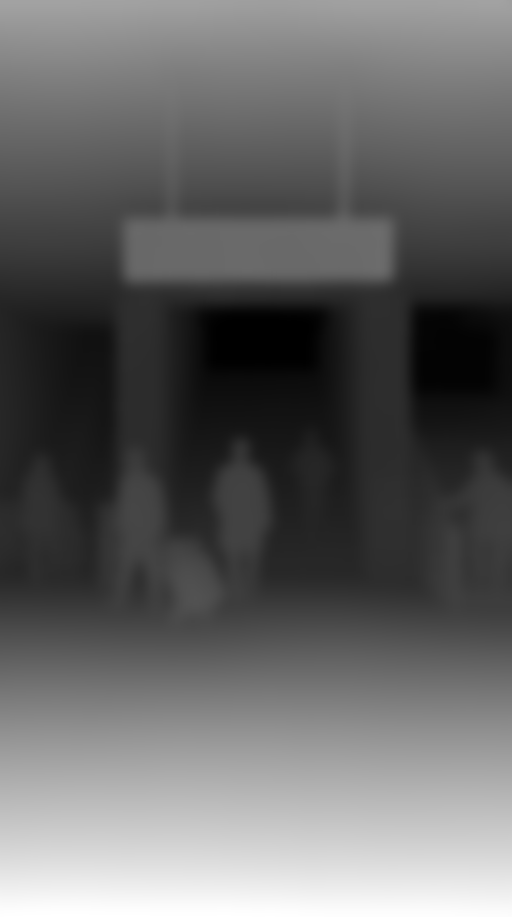
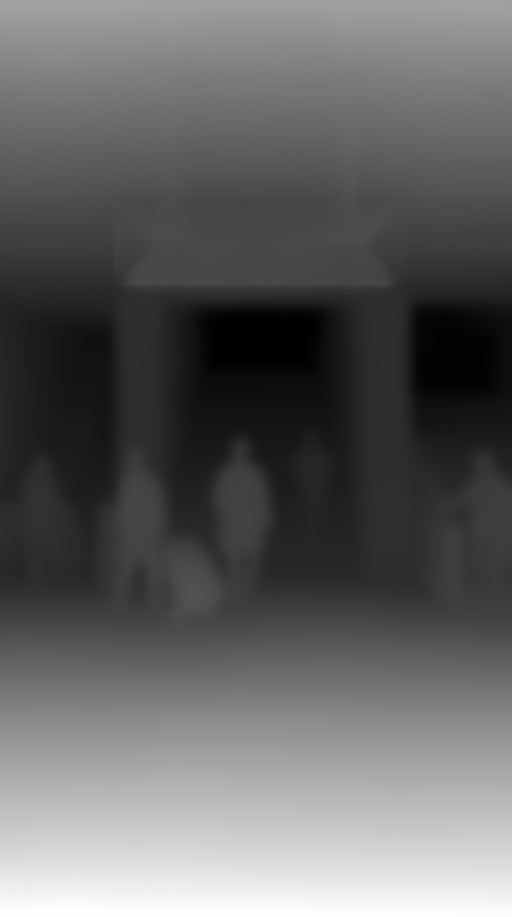
fix(환승 러시 · 11-11 맹검 「간판 테두리가 녹은 플라스틱처럼 울퉁불퉁」): 고르는 순간 카메라가 다가가며 가까운 간판과 먼 천장을 다르게 밀어 테두리가 휘었다 — 출구 간판 · 매단 막대 · 통로 역명판 칸의 깊이를 둘레에서 메워(웹판.py SIGN_FLAT · cv2.inpaint) 간판이 배경과 함께 다가오게, 출구 · 통로 깊이 지도 둘 다시 만듦. 같은 세 화면 맹검(아르곤 카본) 4 · 3 · 2 · 4와 남은 지적(UI 대부분 · 출구 갈래 어긋남 등)을 트랙 · README에, 현장 노트 덧붙임. 시험 83/

Changed region(s): [[0.2188, 0.2137, 0.7812, 0.3053]]

diff --git a/experiences/subway-rush/qa/웹판.py b/experiences/subway-rush/qa/웹판.py
@@ -65,6 +65,27 @@ def fit_plate(img):
     return fit23(img)
 
 
+# 사진 속 표지 칸(그림 좌표 x0, y0, x1, y1): 깊이를 둘레 배경과 같게 편다 — 표지가 배경과 함께 다가와 테두리가 휘지 않는다
+# (11-11 맹검 「간판 테두리가 녹은 플라스틱처럼 울퉁불퉁」 · 「노선 배지 · 한글 획 가장자리 일그러짐」 — 고르는 순간 카메라가 다가가며 가까운 표지와 먼 천장을 다르게 밀었다)
+# 칸은 간판 · 매단 막대에 꼭 맞게 잡는다(넓게 잡으면 천장 기울기가 끊겨 그 둘레가 휜다). 11-11 판(9:16)을 잰 값.
+SIGN_FLAT = {
+    'exit-fork': [(0.235, 0.228, 0.78, 0.305), (0.32, 0.02, 0.35, 0.235), (0.655, 0.02, 0.685, 0.235)],
+    'fork': [(0.04, 0.372, 0.965, 0.437)],
+}
+
+
+def flatten_signs(dep, boxes):
+    """깊이 지도(L, 절반 크기)의 표지 칸을 둘레 깊이로 메운다(cv2.inpaint) — 칸 둘레와 이어져 기울기가 끊기지 않는다."""
+    import cv2
+    d = np.asarray(dep, dtype=np.uint8).copy()
+    h, w = d.shape
+    mask = np.zeros_like(d)
+    for x0, y0, x1, y1 in boxes:
+        mask[int(y0 * h):int(y1 * h) + 1, int(x0 * w):int(x1 * w) + 1] = 255
+    mask = cv2.dilate(mask, np.ones((5, 5), np.uint8))
+    return Image.fromarray(cv2.inpaint(d, mask, 9, cv2.INPAINT_TELEA), 'L')
+
+
 def depth_map(session, img, soft=False):
     w, h = img.size
     scale = 518 / min(w, h)
@@ -92,7 +113,8 @@ def main():
         if want_depth:
             dp = OUT / f'{name}.depth.png'
             if not dp.exists() or dp.stat().st_mtime < f.stat().st_mtime:
-                depth_map(session, img, soft=name in SOFT_DEPTH).save(dp, optimize=True)
+                dm = depth_map(session, img, soft=name in SOFT_DEPTH)
+                (flatten_signs(dm, SIGN_FLAT[name]) if name in SIGN_FLAT else dm).save(dp, optimize=True)
         have[name] = True
     (GAME / 'assets' / 'assets.json').write_text(json.dumps(sorted(have), ensure_ascii=False) + '\n', encoding='utf-8')
     print(len(have), '장', sum(p.stat().st_size for p in OUT.iterdir()) // 1024 // 1024, 'MB')

diff --git a/docs/_ops/트랙.md b/docs/_ops/트랙.md
@@ -235,7 +235,7 @@ synk-town 운영은 11-01 실제 대조 v45 — 0555a4c7(싱크타운 첫 C4 후
 - **빈칸 베기 WORLD 캠퍼스 판(11-04, Claude):** [README](../../experiences/blank-slice/qa/world-campus-20261104/README.md#공개-결과-11-04-저녁) · [결정](결정.md) 11-04 · [시안](https://claude.ai/artifact/Lryf7q5v8KzmuTpg2TLgjq). **앱 공개 끝:** synk.im 게임 폴더 `d88db7ba` · 앱 카드 `34cc62ab`(레슨 한 번이나 카페 첫 방문 뒤 열림), 재현되는 P0 · P1 0. 로그인 계정으로 공개판 한 판은 안 돌렸다. 후속: 중간고사 회차(U08)가 생기면 해금을 그 기록으로 옮기고 인물 초대 장면을 잇는다 · 공통 엔진 `atlas/game-flow.js`의 `offerLessHelp`가 support 노브 둘 이상일 때 첫 노브만 본다 · 공개 도구가 `brand-opening` 모듈에도 토큰을 붙일지. [경과](보관/트랙_2026-11.md#t1110-18)
 - **제2의 나 — 내가 누구냐에 따라 한국어가 바뀌는 게임(11-02 방향 확정, Claude):** [설계](../제2의나_설계_20261102.md) · [결정](결정.md) 11-02~04. 모습은 내 사진으로, 12월 시범은 OpenAI API 일괄 처리 · 무료 크레딧 안에서. 끝난 것: 사진 시험 · [일괄 처리 설계 v0.3](../제2의나_사진아바타_일괄처리_설계_20261103.md) · 오픈 모델 견주기 · 주문 폭주 WORLD 공개 · 얼굴 조각 20 실존 대조. 사진 시범은 11-05 운영에 꺼진 채 올라갔다(서버 상한 $30, 스위치는 꺼짐, 설계 13절). 남은 일: 첫 묶음 확인 뒤 켜기(11-08 22시 예약은 일꾼 연결이 판정기에 막혀 못 돌림 — 유호님 한마디 뒤, §1), 초대(§1), 1화 안 학생증 연결 · 옷 상점(설계 11절), 정식 전 겹침 확인(§1), 정문 인물 · 목소리 정해지면 새 줄 녹음과 ep01 옮기며 2중 검수, 나머지 미니게임은 각 세션. [경과](보관/트랙_2026-11.md#t1102-191) · [11-10 원문](보관/트랙_2026-11.md#t1110-19)
   - **말의 리듬 캠퍼스 판(11-04, Claude · 유호님 「블루아워로」):** [재료](../../experiences/korean-rhythm/qa/world-campus-20261104/README.md) · [결정](결정.md) 11-04. synk.im/world 공개 끝(겉 `254c9cf` · 소리 후속 `06f8ffd`, 둘 다 배포 점검 통과 · 라이브 앱 390 · 1280에서 몽글 그림 · 글 · 곁 튜터 0, LAB 그대로). 검수 아르곤 5건(반영 4 · 재현 안 됨 1) · Fable 11건(반영 10 · 일부 1 — 그 1은 소리 후속에서 마저 고침). 남은 일: 실제 아이폰에서 소리 확인(무음 모드 · 재웠다 깨우기 · 키음 지연, 이 PC에서 못 잰다), 축제 무대 연습 회차가 생기면 해금 줄.
-  - **새 미니게임 환승 러시(11-04, Claude · 유호님 「새로운 게임은 지하철 환승러시」 · 「a로 가자」):** MVP · 앱 연결 · synk.im/world 공개 끝(`4bccb46e`, 접근성 고침 `725f3c0a`) · 로그인 학생 코인 운영 v33 — [결정](결정.md) 11-05 · [설계 v0.4](../../experiences/subway-rush/설계.md) · [README](../../experiences/subway-rush/README.md). **후속 셋 공개(11-05, `4b2755d7`):** 이번 주 계획 · 튜터 후보, 3~4급 기록(60문항 모두 기록), 결과 수 — [결정](결정.md) 11-05 · 아르곤 0건 · Fable 1건(P2, 후보 묶음을 직접 실행해 확인하고 동기화 시험에 더함). **달리는 화면 A 「노선도」(11-10, 맹검 2/10 · 「공장형」 뒤 유호님 고르심):** 공개 synk-policy `8d86e1b318` · 고를 차례 글 `6d91d1a` — [결정](결정.md) 11-10 · [설계 5절](../../experiences/subway-rush/설계.md) · [점검표 59](../마케팅/제작양식/광고영상_슬롭점검표.md). 맹검 3차 휴대폰 3~4 · 사이트 합성 3(남은 지적은 사진 · 사이트 짜임). **사진 다시 굽기(11-11, 유호님 「A로」):** 칸 넷 · 문 열린 판 여덟 · 통로 역명판 · 번호 없는 출구 표지, 판마다 제 비율(거울 이음매 없앰) — [qa/사진-20261111](../../experiences/subway-rush/qa/사진-20261111/README.md) · [결정](결정.md) 11-11. synk.im/world 공개 synk-policy `4b03b6d`(23파일 · 배포 점검 42921141906 통과 · 새 접근성 위반 0) · 화면 검수 아르곤 0건(Fable 생략 — 사진 판과 그리기 값만) · 시험 83/83. **남은 일:** 같은 세 화면 맹검(아르곤 카본 답 읽기 대기), 사이트 조각 다시 찍기는 사이트 세션 몫(곁 메모에 남김). **남은 일:** 폰 실기기 · 귀로 듣기 · 코인과 3~4급 기록의 실제 계정 왕복 확인. Suno 받기 수를 이번에 다 써서(3 → 0) 다음 초기화까지 곡을 못 받는다.
+  - **새 미니게임 환승 러시(11-04, Claude · 유호님 「새로운 게임은 지하철 환승러시」 · 「a로 가자」):** MVP · 앱 연결 · synk.im/world 공개 끝(`4bccb46e`, 접근성 고침 `725f3c0a`) · 로그인 학생 코인 운영 v33 — [결정](결정.md) 11-05 · [설계 v0.4](../../experiences/subway-rush/설계.md) · [README](../../experiences/subway-rush/README.md). **후속 셋 공개(11-05, `4b2755d7`):** 이번 주 계획 · 튜터 후보, 3~4급 기록(60문항 모두 기록), 결과 수 — [결정](결정.md) 11-05 · 아르곤 0건 · Fable 1건(P2, 후보 묶음을 직접 실행해 확인하고 동기화 시험에 더함). **달리는 화면 A 「노선도」(11-10, 맹검 2/10 · 「공장형」 뒤 유호님 고르심):** 공개 synk-policy `8d86e1b318` · 고를 차례 글 `6d91d1a` — [결정](결정.md) 11-10 · [설계 5절](../../experiences/subway-rush/설계.md) · [점검표 59](../마케팅/제작양식/광고영상_슬롭점검표.md). 맹검 3차 휴대폰 3~4 · 사이트 합성 3(남은 지적은 사진 · 사이트 짜임). **사진 다시 굽기(11-11, 유호님 「A로」):** 칸 넷 · 문 열린 판 여덟 · 통로 역명판 · 번호 없는 출구 표지, 판마다 제 비율(거울 이음매 없앰) — [qa/사진-20261111](../../experiences/subway-rush/qa/사진-20261111/README.md) · [결정](결정.md) 11-11. synk.im/world 공개 synk-policy `4b03b6d`(23파일 · 배포 점검 42921141906 통과 · 새 접근성 위반 0) · 화면 검수 아르곤 0건(Fable 생략 — 사진 판과 그리기 값만) · 시험 83/83. 맹검(아르곤 카본, 같은 화면 넷) 문 4 · 통로 3 · 출구 2 · 붐빔 4 — 출구 간판 테두리 휨(깊이 그리기 자국)은 표지 칸 깊이를 메워 고침. **남은 일:** 7에 못 미친다 — 넷 모두 첫 지적이 화면 UI(공장형 길 그래픽 · 고딕 두 줄 라벨 · 위 바 지시문과 단추가 같은 흰 글, 이번 범위 밖), 사진은 출구 갈래가 아래 화살표 자리와 어긋남 · 오른쪽 계단 위 버스, 통로 오른쪽 화살표 앞 사람 · 역명판만 있고 방면 없음, 작은 얼굴 뭉개짐, 칸 기둥 위 Y자. 사이트 조각 다시 찍기는 사이트 세션 몫(곁 메모). **남은 일:** 폰 실기기 · 귀로 듣기 · 코인과 3~4급 기록의 실제 계정 왕복 확인. Suno 받기 수를 이번에 다 써서(3 → 0) 다음 초기화까지 곡을 못 받는다.
 - **MT 바닷가 자전거 레이스(레이싱 WORLD 판, 11-04~, Claude):** [설계](../../experiences/korean-racing/qa/world-mt-20261104/설계.md) · [결정](결정.md) 11-04. 설계 검토 끝, 움직이는 시안 제작 중. 남은 일: 시안 → 유호님 자전거 결 고르기 → MVP → 앱 연결 → 화면 검수 → 공개.
   - **새 미니게임 게시판 해독(11-04, Claude · 유호님 「게시판해독도 가자」):** **11-05 synk.im/world 「놀이」에 공개(세 판).** [설계 v0.3](../../experiences/board-decode/설계.md) · [작은 시험](../../experiences/board-decode/qa/small-test-20261104/README.md) · [결정](결정.md) 11-04 · 11-05. 남은 일: 안 읽고 찍기 78%는 실제 학생 자료로 다시 보기, PC 앱 안 열림은 다음 PC 릴리스(`desktop/src/security.cjs` 허용 목록)에 실린 뒤 확인.
 - **MT 바닷가 자전거 레이스(레이싱 WORLD 판, 11-04~, Claude):** [설계](../../experiences/korean-racing/qa/world-mt-20261104/설계.md) · [결정](결정.md) 11-04. 11-04 공개 끝(synk-policy `17b0970` · `44bc875`, 놀이 해금: 지도 이야기 한 레슨, 자전거 크루저 · 하이브리드 고르기). 남은 일: 사람 귀로 소리 듣기 · 실제 휴대폰 확인 · MT 회차가 생기면 해금 옮기기 · 하린 얼굴 · 목소리가 정해지면 한 줄 바꾸기(이름은 11-05 이야기 지도로 하린 확정) · 쓰이지 않는 현수막 되감기 조건 정리(ride-rig.js).

diff --git a/docs/현장노트/시험_화면확인.md b/docs/현장노트/시험_화면확인.md
@@ -2311,6 +2311,7 @@
 - 원인: `experiences/subway-rush/scene.mjs`가 판 비율을 2:3으로 못 박아(`uAspect = 1024/1536`) 폰(390×844, 그림 맞춤 1.15)에서 사진이 화면 높이의 약 80%만 덮고 위아래를 거울(`mir`)로 이어 그렸다 — 천장 빛줄이 그 이음매에서 V자로 꺾인다. 다가가는 움직임(`inv`)은 깊이 지도의 가파른 경계에서 화소를 끌어당겨, 매단 표지의 가는 막대 · 얇은 판 둘레가 톱니로 찢긴다.
 - 고침: 판마다 제 비율을 쓰게 하고(`aspectOf` · 다음 판 `uNextAspect`) 9:16 판을 그대로 넣었다(화면 높이의 약 94%를 덮어 이음매가 노선 줄 · 역 지도 밑으로 숨는다). 매단 물건이 있는 판은 깊이 지도를 더 흐린다(`qa/웹판.py` `SOFT_DEPTH` — 반지름 폭/160).
 - 다시 확인: 고르는 순간을 폰 크기로 찍어(`qa/사진-20261111/고르는순간.cjs`) 위 15%와 매단 물건 둘레를 2배로 잘라 원판과 나란히 본다 — 사진의 결함인지 그리기의 자국인지는 원판과 화면 캡처를 나란히 놓으면 바로 갈린다.
+- 덧붙임(11-11 저녁): 깊이 지도를 흐리기만 하면 톱니는 사라져도 간판 테두리가 물결처럼 휘었다(아르곤 맹검 「녹은 플라스틱처럼 울퉁불퉁」 · 통로 역명판 「획 가장자리 일그러짐」). 간판 · 매단 막대 칸에 꼭 맞게 가림을 잡고 그 칸의 깊이를 둘레에서 메우면(`qa/웹판.py` `SIGN_FLAT` · `flatten_signs`, cv2.inpaint) 간판이 뒤 천장과 함께 다가와 곧은 네모로 남는다. 칸을 넓게 잡아 한 값으로 채우면 천장 기울기가 끊겨 그 둘레가 휜다.
 
 ## 통화·메신저 시험
 

diff --git a/experiences/subway-rush/qa/사진-20261111/README.md b/experiences/subway-rush/qa/사진-20261111/README.md
@@ -27,3 +27,4 @@
 
 - 11-11 07:54 synk.im/world — synk-policy `4b03b6d`(게임 파일 23개, 라이브 바이트 같음 · 배포 점검 42921141906 통과). 원천 origin `eccd3aa8c`. 화면 검수 아르곤 0건(`subway-rush-photo-20261111-b`, Fable 생략 — 사진 판과 그에 맞춘 그리기 값만).
 - 공개 전 점검: 잡히지 않은 오류 0 · axe 치명 0 · console.error 0. 폰 390 · 넓은 화면 1440에서 고르는 순간 · 문 열림을 찍어 오류 · 실패 요청 0.
+- 11-11 저녁 덧붙임: 같은 세 화면 맹검(아르곤 카본, `.tmp/미학맹검/subway-rush-photo-20261111-3`) 문 4 · 통로 3 · 출구 2 · 붐빔 4. 출구 간판 테두리 휨은 깊이 그리기 자국이라 표지 칸 깊이를 메워 고쳤다(`웹판.py` `SIGN_FLAT`). 남은 지적은 화면 UI(길 그래픽 · 라벨 · 위 바)와 사진(출구 갈래가 아래 화살표 자리와 어긋남 · 버스 자리, 작은 얼굴 뭉개짐, 칸 기둥 위 Y자) — 트랙 줄.
